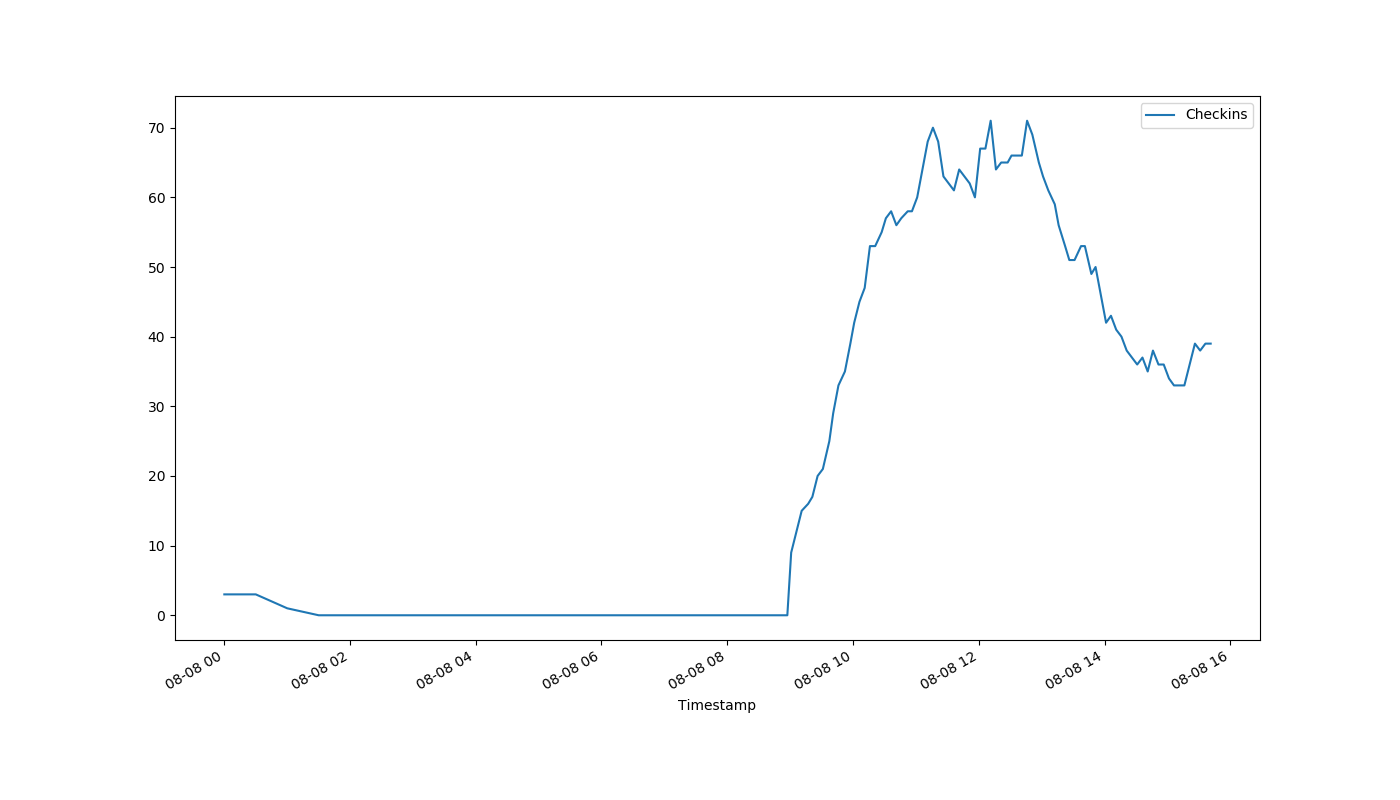
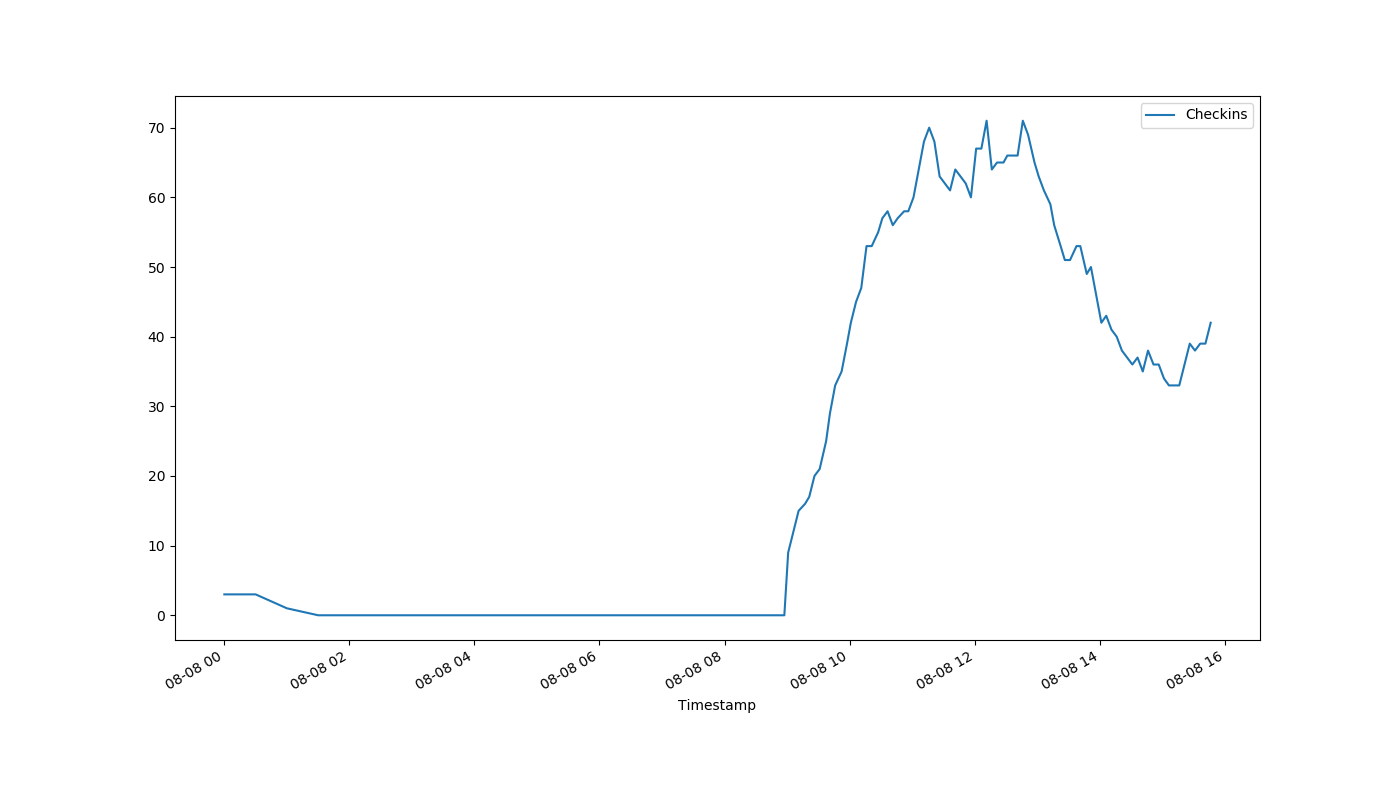
auto-Aug-08-15:46:47

diff --git a/index.html b/index.html
@@ -1,1 +1,1 @@
-<!DOCTYPE html><html><head><meta http-equiv="refresh" content="30"><link rel='stylesheet' href='holmcurrent.css'></head><body><p id='count'>39</p><div id='graph-wrap'><img id='graph' src='holmgraph-Aug-08.png'></div><p id='updated'>Last updated 15:41:19 / 15:41:06</p></body></html>
+<!DOCTYPE html><html><head><meta http-equiv="refresh" content="30"><link rel='stylesheet' href='holmcurrent.css'></head><body><p id='count'>42</p><div id='graph-wrap'><img id='graph' src='holmgraph-Aug-08.png'></div><p id='updated'>Last updated 15:46:19 / 15:46:08</p></body></html>
